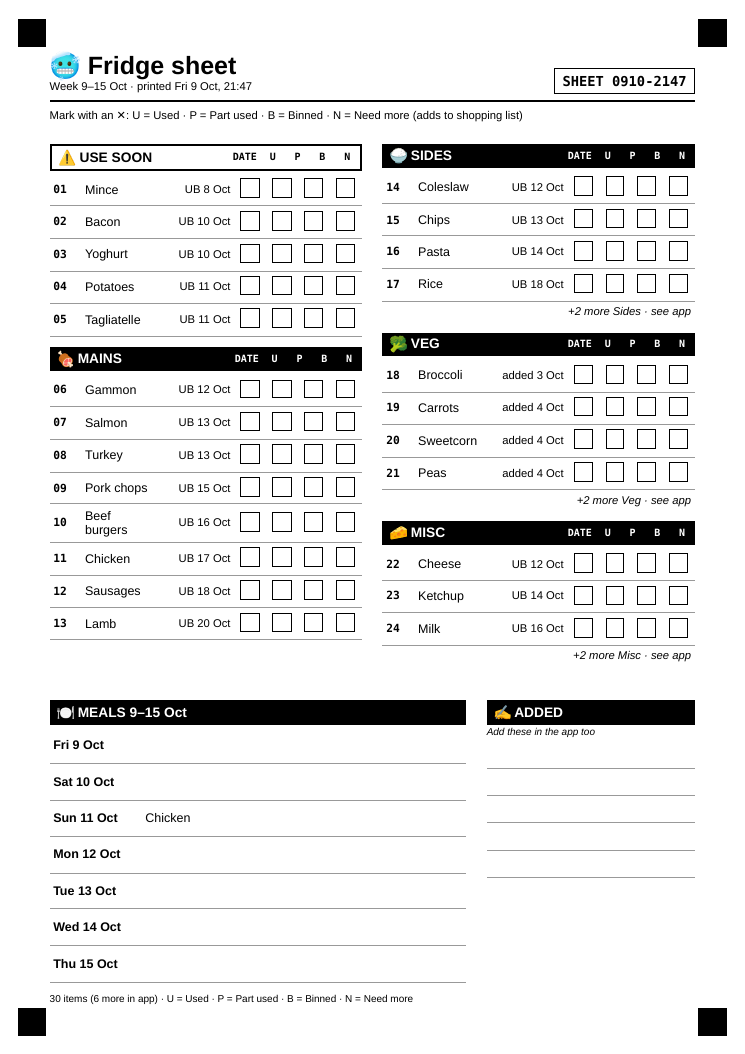
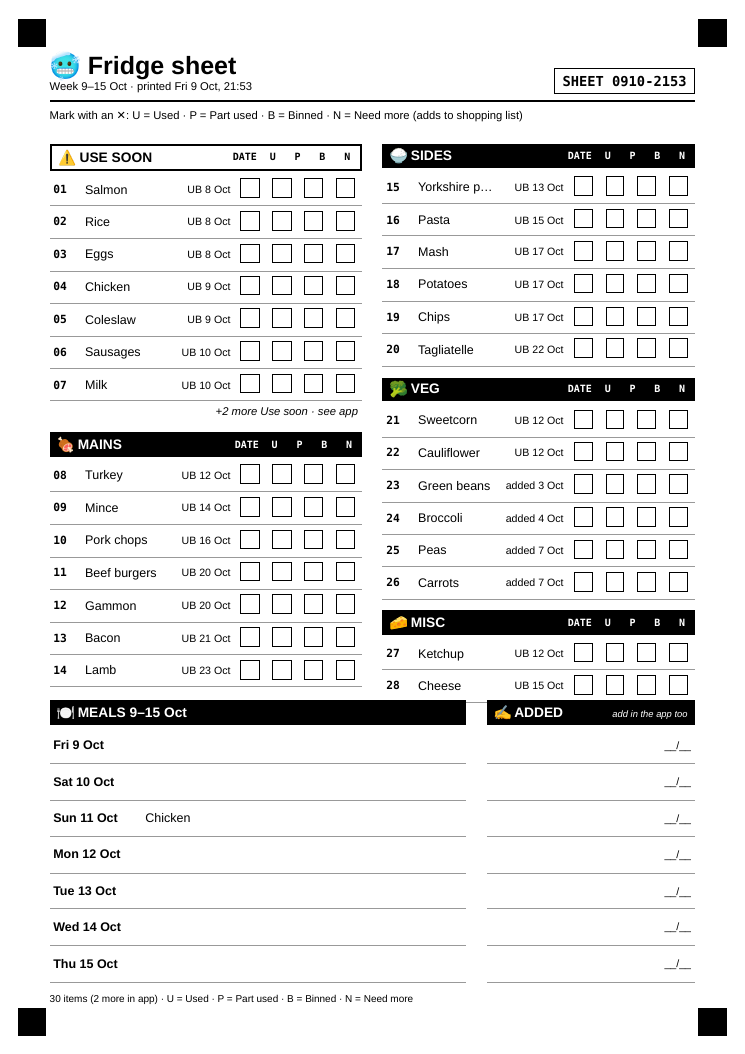
Sheet: Added box has 7 dated lines in line with Meals; one line per food so lists never run under the bottom
Claude-Session: https://claude.ai/code/session_01RYuLFCMH8FfbNC7o54QPRC

diff --git a/tests/screens.check.js b/tests/screens.check.js
@@ -720,8 +720,9 @@ process.on("exit", () => server && server.kill());
     assert.match(await sheet.locator(".ps-key").innerText(), /N = Need more/);
     // bottom: Meals (2/3, left) + Added names (1/3, right); no Need box any more
     assert.equal(await sheet.locator(".ps-need").count(), 0);
-    assert.equal(await sheet.locator(".ps-added tr").count(), 5);
-    assert.match(await sheet.locator(".ps-added").innerText(), /Add these in the app too/);
+    assert.equal(await sheet.locator(".ps-added tr").count(), 7);
+    assert.match(await sheet.locator(".ps-added tr").first().innerText(), /__\/__/);
+    assert.match(await sheet.locator(".ps-added").innerText(), /add in the app too/i);
     assert.equal(await sheet.locator(".ps-meals tr").count(), 7);
     assert.match(await sheet.locator(".ps-meals tr").first().innerText(), /Wed 7 Oct/);
     // corner marks and black bars must print even with "Background graphics" off:
@@ -737,6 +738,19 @@ process.on("exit", () => server && server.kill());
     assert.equal(await sheet.isVisible(), false);
     await page.emulateMedia({ media: "print" });
     assert.equal(await sheet.isVisible(), true);
+    {
+      const a1 = await sheet.locator(".ps-added tr").first().boundingBox(), m1 = await sheet.locator(".ps-meals tr").first().boundingBox();
+      const a7 = await sheet.locator(".ps-added tr").last().boundingBox(), m7 = await sheet.locator(".ps-meals tr").last().boundingBox();
+      assert.ok(Math.abs(a1.y - m1.y) < 3 && Math.abs((a7.y + a7.height) - (m7.y + m7.height)) < 3, "Added rows line up with Meals rows");
+    }
+    // long names stay on one line, so the food lists never run under the bottom boxes
+    {
+      const top = await sheet.locator(".ps-top").boundingBox();
+      const bottom = await sheet.locator(".ps-bottom").boundingBox();
+      assert.ok(top.y + top.height <= bottom.y + 1, "food lists end above Meals/Added");
+      const nameCell = sheet.locator(".ps-top tr td:nth-child(2)").first();
+      assert.equal(await nameCell.evaluate(e => getComputedStyle(e).whiteSpace), "nowrap");
+    }
     assert.equal(await page.locator(".phone").isVisible(), false);
     await page.emulateMedia({ media: "screen" });
   });

diff --git a/css/style.css b/css/style.css
@@ -323,11 +323,15 @@ button.act.part{background:var(--soonbg);color:var(--soon)}
 #printSheet td.id{font:bold 9pt monospace;width:7mm}
 #printSheet td.bx{width:7mm;text-align:center}
 #printSheet td.bx span{display:inline-block;width:5mm;height:5mm;border:1.5px solid #000}
-#printSheet td.d{width:20mm;white-space:nowrap;font-size:9pt;text-align:right}
+#printSheet td.d{width:17mm;white-space:nowrap;font-size:8.5pt;text-align:right}
 #printSheet .more{font-size:9pt;font-style:italic;text-align:right;padding:1mm}
 #printSheet .ps-bottom{position:absolute;left:14mm;right:14mm;bottom:20mm;display:grid;grid-template-columns:2fr 1fr;gap:6mm;align-items:start}
-#printSheet .ps-hint{font-size:8pt;font-style:italic;margin:-0.5mm 0 1mm}
+#printSheet .ps-hint{font-size:7.5pt;font-style:italic;font-weight:400;float:right;margin-top:1mm}
 #printSheet table.blank td{height:5.5mm;padding:1mm}
+#printSheet .ps-added table.blank td{height:8mm}
+/* one line per food: long names are cut with "…" so the lists keep their height */
+#printSheet .ps-top table{table-layout:fixed}
+#printSheet .ps-top td:nth-child(2){white-space:nowrap;overflow:hidden;text-overflow:ellipsis}
 #printSheet .ps-meals td{height:8mm;padding:1mm}
 #printSheet .ps-meals td.dn{width:24mm;white-space:nowrap;font-weight:700}
 #printSheet .ps-foot{position:absolute;bottom:14mm;left:14mm;right:14mm;font-size:8pt}

diff --git a/js/app.js b/js/app.js
@@ -62,7 +62,7 @@
     const column = secs => secs.map(section).join('');
 
     const blankRows = (n, cells) => Array.from({ length: n }, () => `<tr>${cells}</tr>`).join('');
-    const added = blankRows(5, '<td>&nbsp;</td>');
+    const added = blankRows(7, '<td>&nbsp;</td><td class="d">__/__</td>');
     const meals = sheet.meals.map(m =>
       `<tr><td class="dn">${esc(m.day)}</td><td>${m.text ? esc(m.text) : '&nbsp;'}</td></tr>`).join('');
 
@@ -79,7 +79,7 @@
   <div class="ps-top"><div>${column(sheet.left)}</div><div>${column(sheet.right)}</div></div>
   <div class="ps-bottom">
     <div class="ps-meals"><h2>🍽 MEALS ${esc(sheet.range)}</h2><table>${meals}</table></div>
-    <div class="ps-added"><h2>✍ ADDED</h2><div class="ps-hint">Add these in the app too</div><table class="blank">${added}</table></div>
+    <div class="ps-added"><h2>✍ ADDED<span class="ps-hint">add in the app too</span></h2><table class="blank">${added}</table></div>
   </div>
   <div class="ps-foot">${esc(footer)}</div>
 </div>`;
